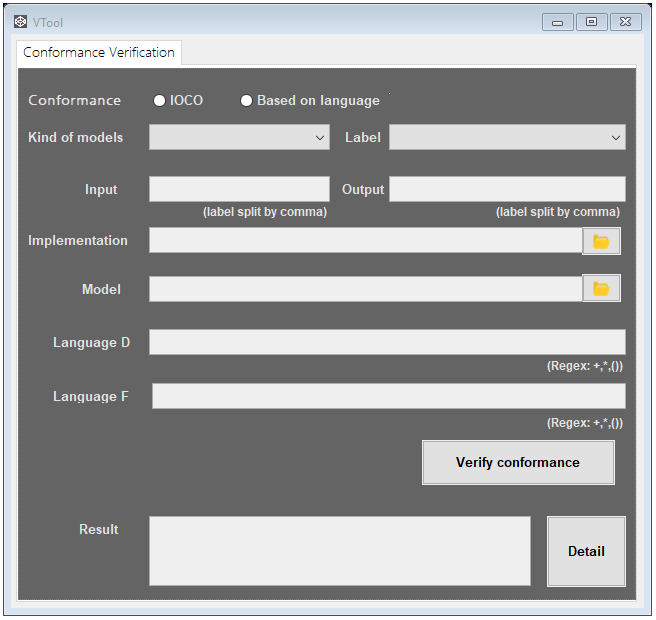
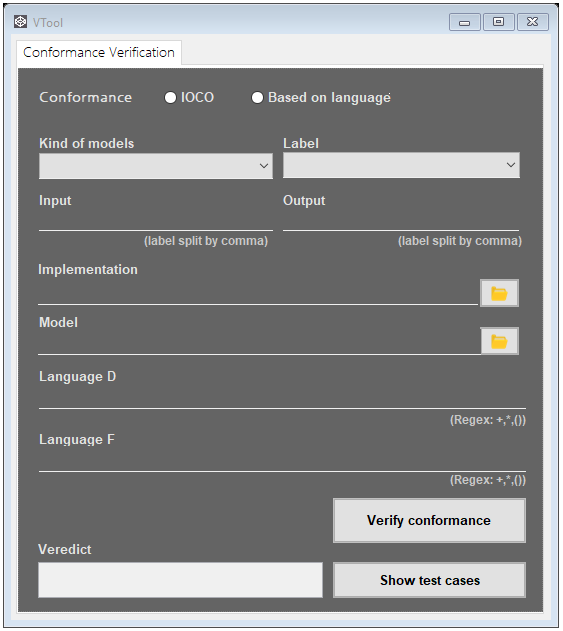
ajustes interface

diff --git a/index.html b/index.html
@@ -160,8 +160,8 @@
                 <li class="text-white-50"><b>Language D:</b>can be filled if the conformance based on language is chosen, represents the desired behavior of implementation express in regex;</li>
                 <li class="text-white-50"><b>Language F:</b>can be filled if the conformance based on language is chosen, represents the undesired behavior of implementation express in regex;</li>
                 <li class="text-white-50"><b>Verify conformance:</b>clicking on the button will verify that the implementation complies with the specification;</li>
-                <li class="text-white-50"><b>Result:</b>will inform the verdict whether or not the models  conforms</li>
-                <li class="text-white-50"><b>Detail:</b>will show the test cases that prove the nonconformity between an implementation and an implementation, in addition to the paths covered by the models when applying each of the test cases</li>
+                <li class="text-white-50"><b>Veredict:</b>will inform the verdict whether or not the models  conforms</li>
+                <li class="text-white-50"><b>Show test cases:</b>will show the test cases that prove the nonconformity between an implementation and an implementation, in addition to the paths covered by the models when applying each of the test cases</li>
             </ul>
           </div>         
         </div>
